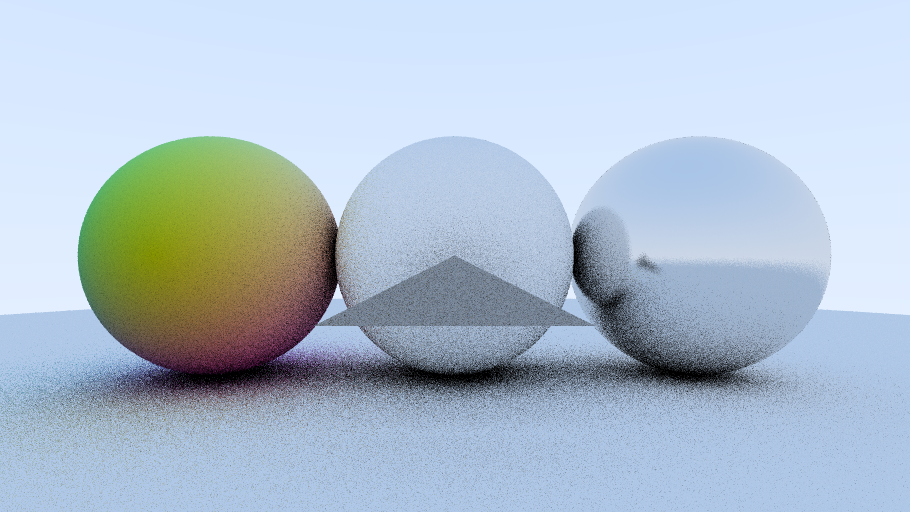
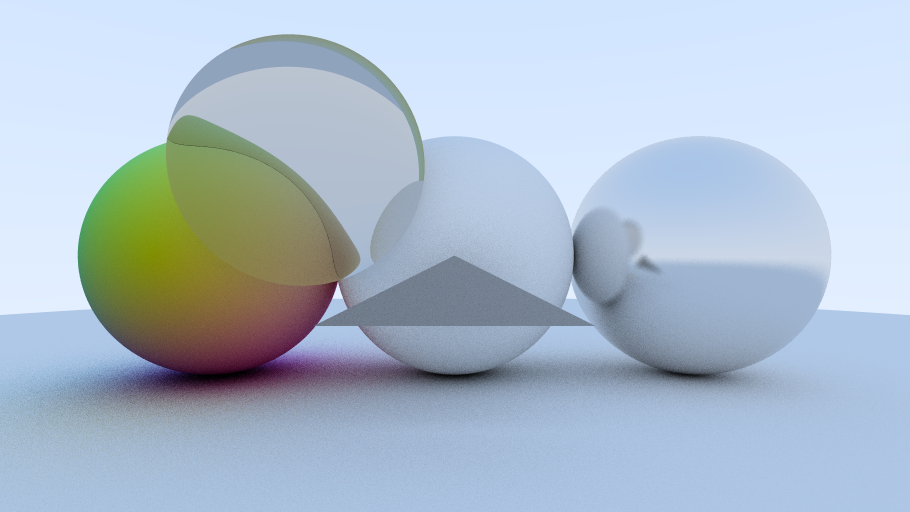
Refraction material

Changed region(s): [[0.0, 0.0625, 0.8615, 0.9062]]

diff --git a/src/engine/material/refraction.rs b/src/engine/material/refraction.rs
@@ -6,22 +6,49 @@ use crate::engine::math::utils::{*};
 use glam::{Vec3A};
 
 #[derive(Copy, Clone)]
-pub struct MetalMaterial {
-    pub metalness: f32,
+pub enum RefractionType {
+    Air,
+    Glass,
+    Diamond,
 }
 
-pub fn reflect(eye: Vec3A, normal: Vec3A) -> Vec3A {
-    eye - 2.0 * (normal.dot(eye)) * normal
+#[derive(Copy, Clone)]
+pub struct RefractionMaterial {
+    pub refraction_type: RefractionType,
 }
 
-impl Scatter for MetalMaterial {
-    fn scatter(&self, ray: Ray, hit_result: &HitResult) -> Option<Vec3A> {
-        let mut direction = reflect(ray.direction, hit_result.normal) + (1.0 - self.metalness) * random_in_unit_sphere();
+fn ior(refraction_type: RefractionType, front_face: bool) -> f32 {
+    let mut ior = match refraction_type {
+        RefractionType::Air => 1.0,
+        RefractionType::Glass => 1.3,
+        RefractionType::Diamond => 2.4,
+        _ => 1.0
+    };
+
+    if front_face {
+        return 1.0 / ior;
+    }
+    return ior;
+}
+
+
+fn refract(ray: &Ray, hit_result: &HitResult, ior: f32) -> Vec3A {
+    let cos_theta = (-1.0 * ray.direction).dot(hit_result.normal);
+    let r_out_perp =  ior * (ray.direction + cos_theta * hit_result.normal);
+    let r_out_parallel = -((1.0 - r_out_perp.length_squared()).abs()).sqrt() * hit_result.normal;
+    return r_out_perp + r_out_parallel;
+}
+
+impl Scatter for RefractionMaterial {
+    fn scatter(&self, ray: &Ray, hit_result: &HitResult) -> Option<Vec3A> {
+        let ior = ior(self.refraction_type, hit_result.front_face);
+
+        let mut direction = refract(ray, hit_result, ior);
         Some(direction.normalize())
     }
 }
 
-impl Sample for MetalMaterial {
+impl Sample for RefractionMaterial {
     fn sample(&self, hit_result : &HitResult) -> Vec3A {
         Vec3A::ONE
     }

diff --git a/src/engine/scene.rs b/src/engine/scene.rs
@@ -6,6 +6,7 @@ use crate::engine::material::{*};
 use crate::engine::material::diffuse::{*};
 use crate::engine::material::metal::{*};
 use crate::engine::material::normal::{*};
+use crate::engine::material::refraction::{*};
 
 use super::geometry::sphere::{*};
 use super::geometry::triangle::{*};
@@ -168,6 +169,15 @@ impl Scene {
         };
         let rc_normal_material = Rc::new(normal_material);
 
+        let refraction_material_data = Rc::new(
+            RefractionMaterial{refraction_type: RefractionType::Glass}
+        );
+        let refraction_material = Material{
+            scatter : refraction_material_data.clone(),
+            sample: refraction_material_data.clone()
+        };
+        let rc_refraction_material = Rc::new(refraction_material);
+
         let mut mesh : Mesh = Mesh::new(rc_diffuse_material.clone());
         mesh.add_geometry(Rc::new(Sphere{radius : 0.5, position : Vec3A::new(0.0, 0.0, 1.2)}));
         mesh.add_geometry(Rc::new(Sphere{radius : 100.0, position : Vec3A::new(0.0, -100.5, 1.0)}));
@@ -179,6 +189,10 @@ impl Scene {
 
         let mut mesh : Mesh = Mesh::new(rc_normal_material.clone());
         mesh.add_geometry(Rc::new(Sphere{radius : 0.5, position : Vec3A::new(-1.0, 0.0, 1.2)}));
+        self.meshes.push(mesh);
+
+        let mut mesh : Mesh = Mesh::new(rc_refraction_material.clone());
+        mesh.add_geometry(Rc::new(Sphere{radius : 0.4, position : Vec3A::new(-0.5, 0.3, 0.7)}));
         self.meshes.push(mesh);
 
         self.load_gltf("example1.gltf");

diff --git a/src/engine/geometry/triangle.rs b/src/engine/geometry/triangle.rs
@@ -27,7 +27,7 @@ impl Triangle {
 }
 
 impl Traceable for Triangle {
-    fn hit(&self, ray: Ray, t_min: f32, t_max: f32) -> Option<HitResult> {
+    fn hit(&self, ray: &Ray, t_min: f32, t_max: f32) -> Option<HitResult> {
         let v0v1 = self.vertices[1].position - self.vertices[0].position;
         let v0v2 = self.vertices[2].position - self.vertices[0].position;
         let pvec = ray.direction.cross(v0v2);
@@ -38,6 +38,9 @@ impl Traceable for Triangle {
         if det.abs() < Triangle::EPSILON {
             return None;
         }
+
+        let front_face = det < Triangle::EPSILON;
+
         let inv_det = 1.0 / det;
 
         let tvec = ray.origin - self.vertices[0].position;
@@ -57,6 +60,7 @@ impl Traceable for Triangle {
             return None;
         }
         
-        return Some(HitResult { position: ray.at(t), t: t, normal: self.normal, material: Weak::new(), uv: Vec2::new(u, v) });
+        return Some(HitResult { position: ray.at(t), t: t, normal: self.normal, material: Weak::new(), 
+            uv: Vec2::new(u, v), front_face: front_face });
     }
 }

diff --git a/src/engine/renderer.rs b/src/engine/renderer.rs
@@ -28,7 +28,7 @@ impl Renderer {
        input / (Vec3A::ONE + input)
     }
 
-    fn sample_scene(ray : Ray, scene : &Scene, depth : u64) -> Vec3A {
+    fn sample_scene(ray : &Ray, scene : &Scene, depth : u64) -> Vec3A {
         let mut success = false;
         let mut min_hit_result = HitResult::new();
 
@@ -59,7 +59,7 @@ impl Renderer {
 
                 let new_ray = Ray{origin : min_hit_result.position, direction : scatter_vector};
                 if depth > 1 {
-                    return 0.8 * Self::sample_scene(new_ray, scene, depth - 1) * sample;
+                    return 0.8 * Self::sample_scene(&new_ray, scene, depth - 1) * sample;
                 }
             }
         }
@@ -77,7 +77,7 @@ impl Renderer {
 
                 let ray = camera.get_ray(u, 1.0 - v);
 
-                let mut current_sample = Self::sample_scene(ray, 
+                let mut current_sample = Self::sample_scene(&ray, 
                     &render_context.scene, render_context.max_depth);
 
                 //current_sample = Self::tone_mapping(current_sample);

diff --git a/src/engine/geometry/sphere.rs b/src/engine/geometry/sphere.rs
@@ -14,7 +14,7 @@ impl Sphere {
 }
 
 impl Traceable for Sphere {
-    fn hit(&self, ray: Ray, t_min: f32, t_max: f32) -> Option<HitResult> {
+    fn hit(&self, ray: &Ray, t_min: f32, t_max: f32) -> Option<HitResult> {
         let oc: Vec3A = ray.origin - self.position;
         let a: f32 = ray.direction.dot(ray.direction);
         let half_b: f32 = oc.dot(ray.direction);
@@ -33,11 +33,14 @@ impl Traceable for Sphere {
             }
         }
         let position = ray.at(t);
+        let mut front_face = true;
         let mut normal = (position - self.position) / self.radius;
         if normal.dot(ray.direction) > 0.0 {
             normal = normal * -1.0;
+            front_face = false;
         }
 
-        Some(HitResult{position : position, t : t, normal : normal, material : Weak::new(), uv: Vec2::ZERO})
+        Some(HitResult{position : position, t : t, normal : normal, material : Weak::new(), 
+            uv: Vec2::ZERO, front_face: front_face})
     }
 }

diff --git a/src/engine/geometry/traceable.rs b/src/engine/geometry/traceable.rs
@@ -11,10 +11,11 @@ pub struct HitResult {
     pub normal: Vec3A,
     pub material: Weak<Material>,
     pub uv: Vec2,
+    pub front_face: bool
 }
 
 pub trait Traceable {
-    fn hit(&self, ray: Ray, t_min: f32, t_max: f32) -> Option<HitResult>;
+    fn hit(&self, ray: &Ray, t_min: f32, t_max: f32) -> Option<HitResult>;
 }
 
 impl HitResult {
@@ -25,6 +26,7 @@ impl HitResult {
             normal: Vec3A::new(0.0, 0.0, 0.0),
             material: Weak::new(),
             uv: Vec2::ZERO,
+            front_face: true,
         }
     }
 }

diff --git a/src/engine/material/metal.rs b/src/engine/material/metal.rs
@@ -15,7 +15,7 @@ pub fn reflect(eye: Vec3A, normal: Vec3A) -> Vec3A {
 }
 
 impl Scatter for MetalMaterial {
-    fn scatter(&self, ray: Ray, hit_result: &HitResult) -> Option<Vec3A> {
+    fn scatter(&self, ray: &Ray, hit_result: &HitResult) -> Option<Vec3A> {
         let mut direction = reflect(ray.direction, hit_result.normal) + (1.0 - self.metalness) * random_in_unit_sphere();
         Some(direction.normalize())
     }

diff --git a/src/engine/material.rs b/src/engine/material.rs
@@ -1,6 +1,7 @@
 pub mod diffuse;
 pub mod metal;
 pub mod normal;
+pub mod refraction;
 
 use crate::engine::math::ray::{*};
 use glam::{Vec3A};
@@ -20,7 +21,7 @@ impl Material {
 }
 
 pub trait Scatter {
-    fn scatter(&self, ray: Ray, hit_result : &HitResult) -> Option<Vec3A>;
+    fn scatter(&self, ray: &Ray, hit_result : &HitResult) -> Option<Vec3A>;
 }
 
 pub trait Sample {

diff --git a/src/engine/material/diffuse.rs b/src/engine/material/diffuse.rs
@@ -10,7 +10,7 @@ pub struct DiffuseMaterial {
 }
 
 impl Scatter for DiffuseMaterial {
-    fn scatter(&self, ray: Ray, hit_result : &HitResult) -> Option<Vec3A> {
+    fn scatter(&self, ray: &Ray, hit_result : &HitResult) -> Option<Vec3A> {
         let diffuse_position = hit_result.normal + random_in_unit_sphere();
         Some(diffuse_position.normalize())
     }

diff --git a/src/engine/material/normal.rs b/src/engine/material/normal.rs
@@ -10,7 +10,7 @@ pub struct NormalMaterial {
 }
 
 impl Scatter for NormalMaterial {
-    fn scatter(&self, ray: Ray, hit_result : &HitResult) -> Option<Vec3A> {
+    fn scatter(&self, ray: &Ray, hit_result : &HitResult) -> Option<Vec3A> {
         let diffuse_position = hit_result.normal + random_in_unit_sphere();
         Some(diffuse_position.normalize())
     }

diff --git a/src/main.rs b/src/main.rs
@@ -30,8 +30,8 @@ fn main() {
         }
     }
 
-    let render_context = RenderContext{render_target : render_target, scene : scene, spp : 10,
-        max_depth : 5};
+    let render_context = RenderContext{render_target : render_target, scene : scene, spp : 100,
+        max_depth : 50};
 
     let renderer = Renderer{};
 

diff --git a/src/engine/mesh.rs b/src/engine/mesh.rs
@@ -27,7 +27,7 @@ impl Mesh {
         self.geometry.push(geometry.clone());
     }
 
-    pub fn hit(&self, ray: Ray) -> Option<HitResult> {
+    pub fn hit(&self, ray: &Ray) -> Option<HitResult> {
         let mut success = false;
         let mut min_hit_result = HitResult::new();
 
